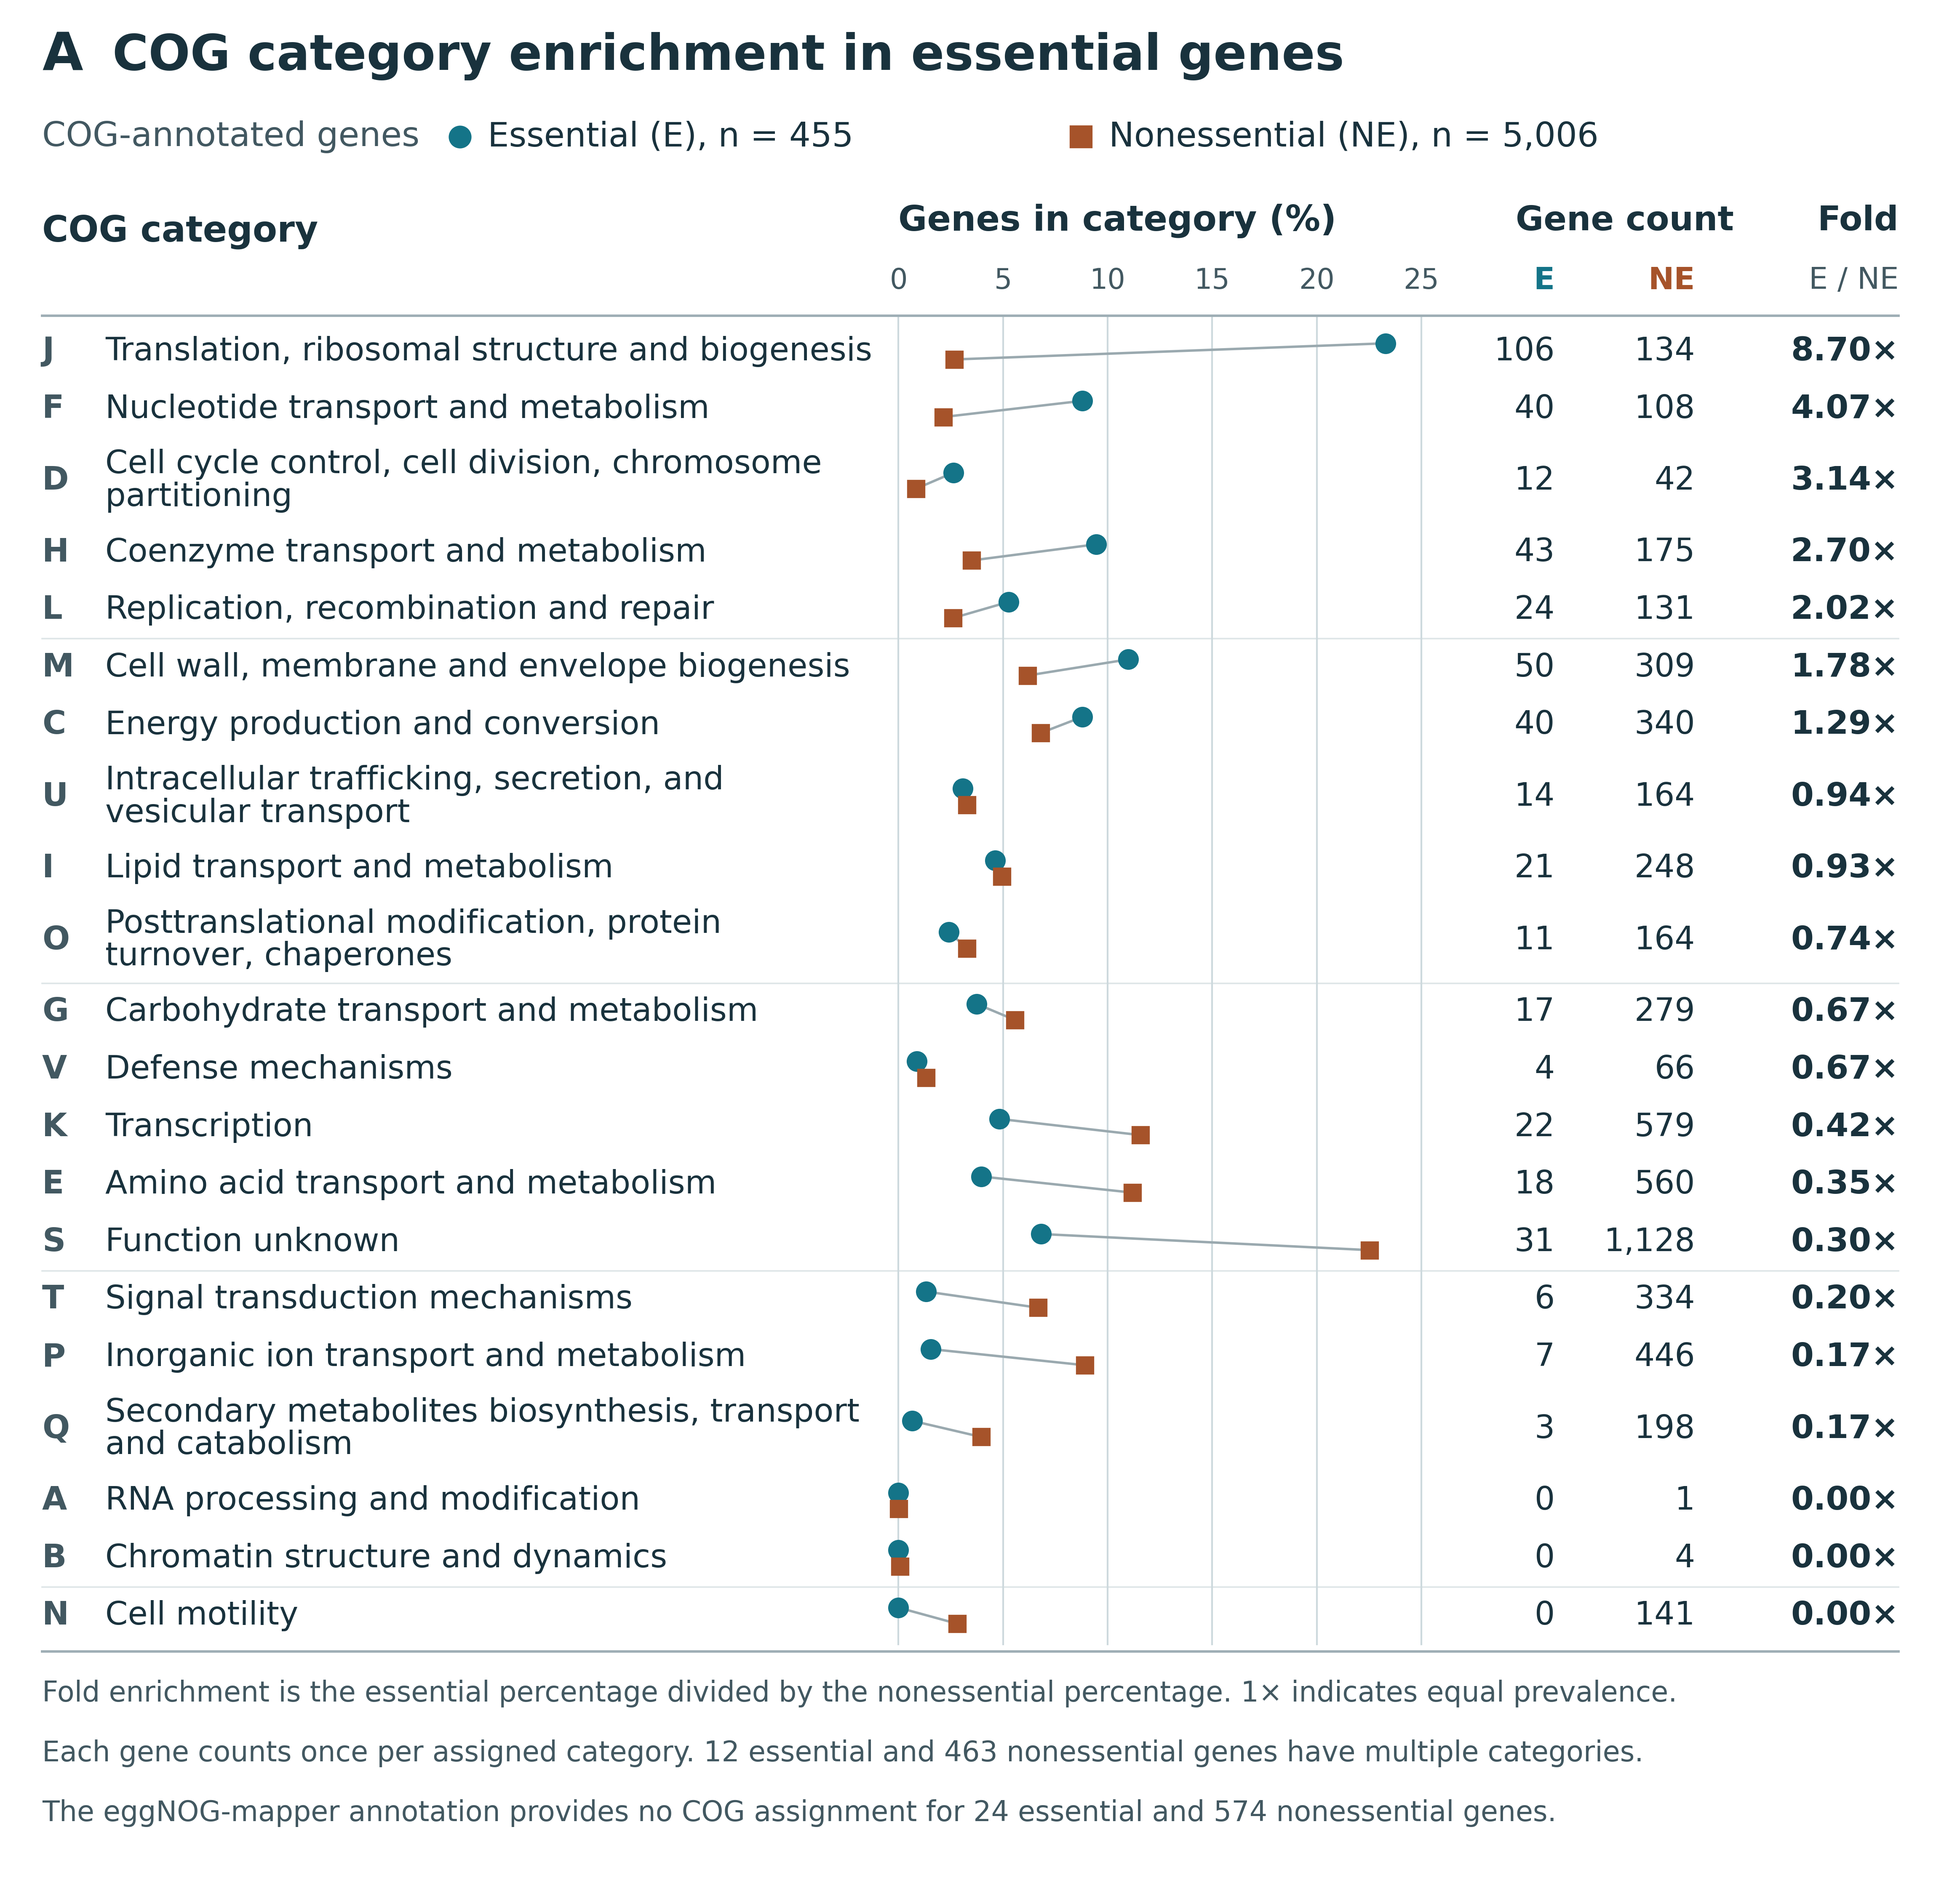
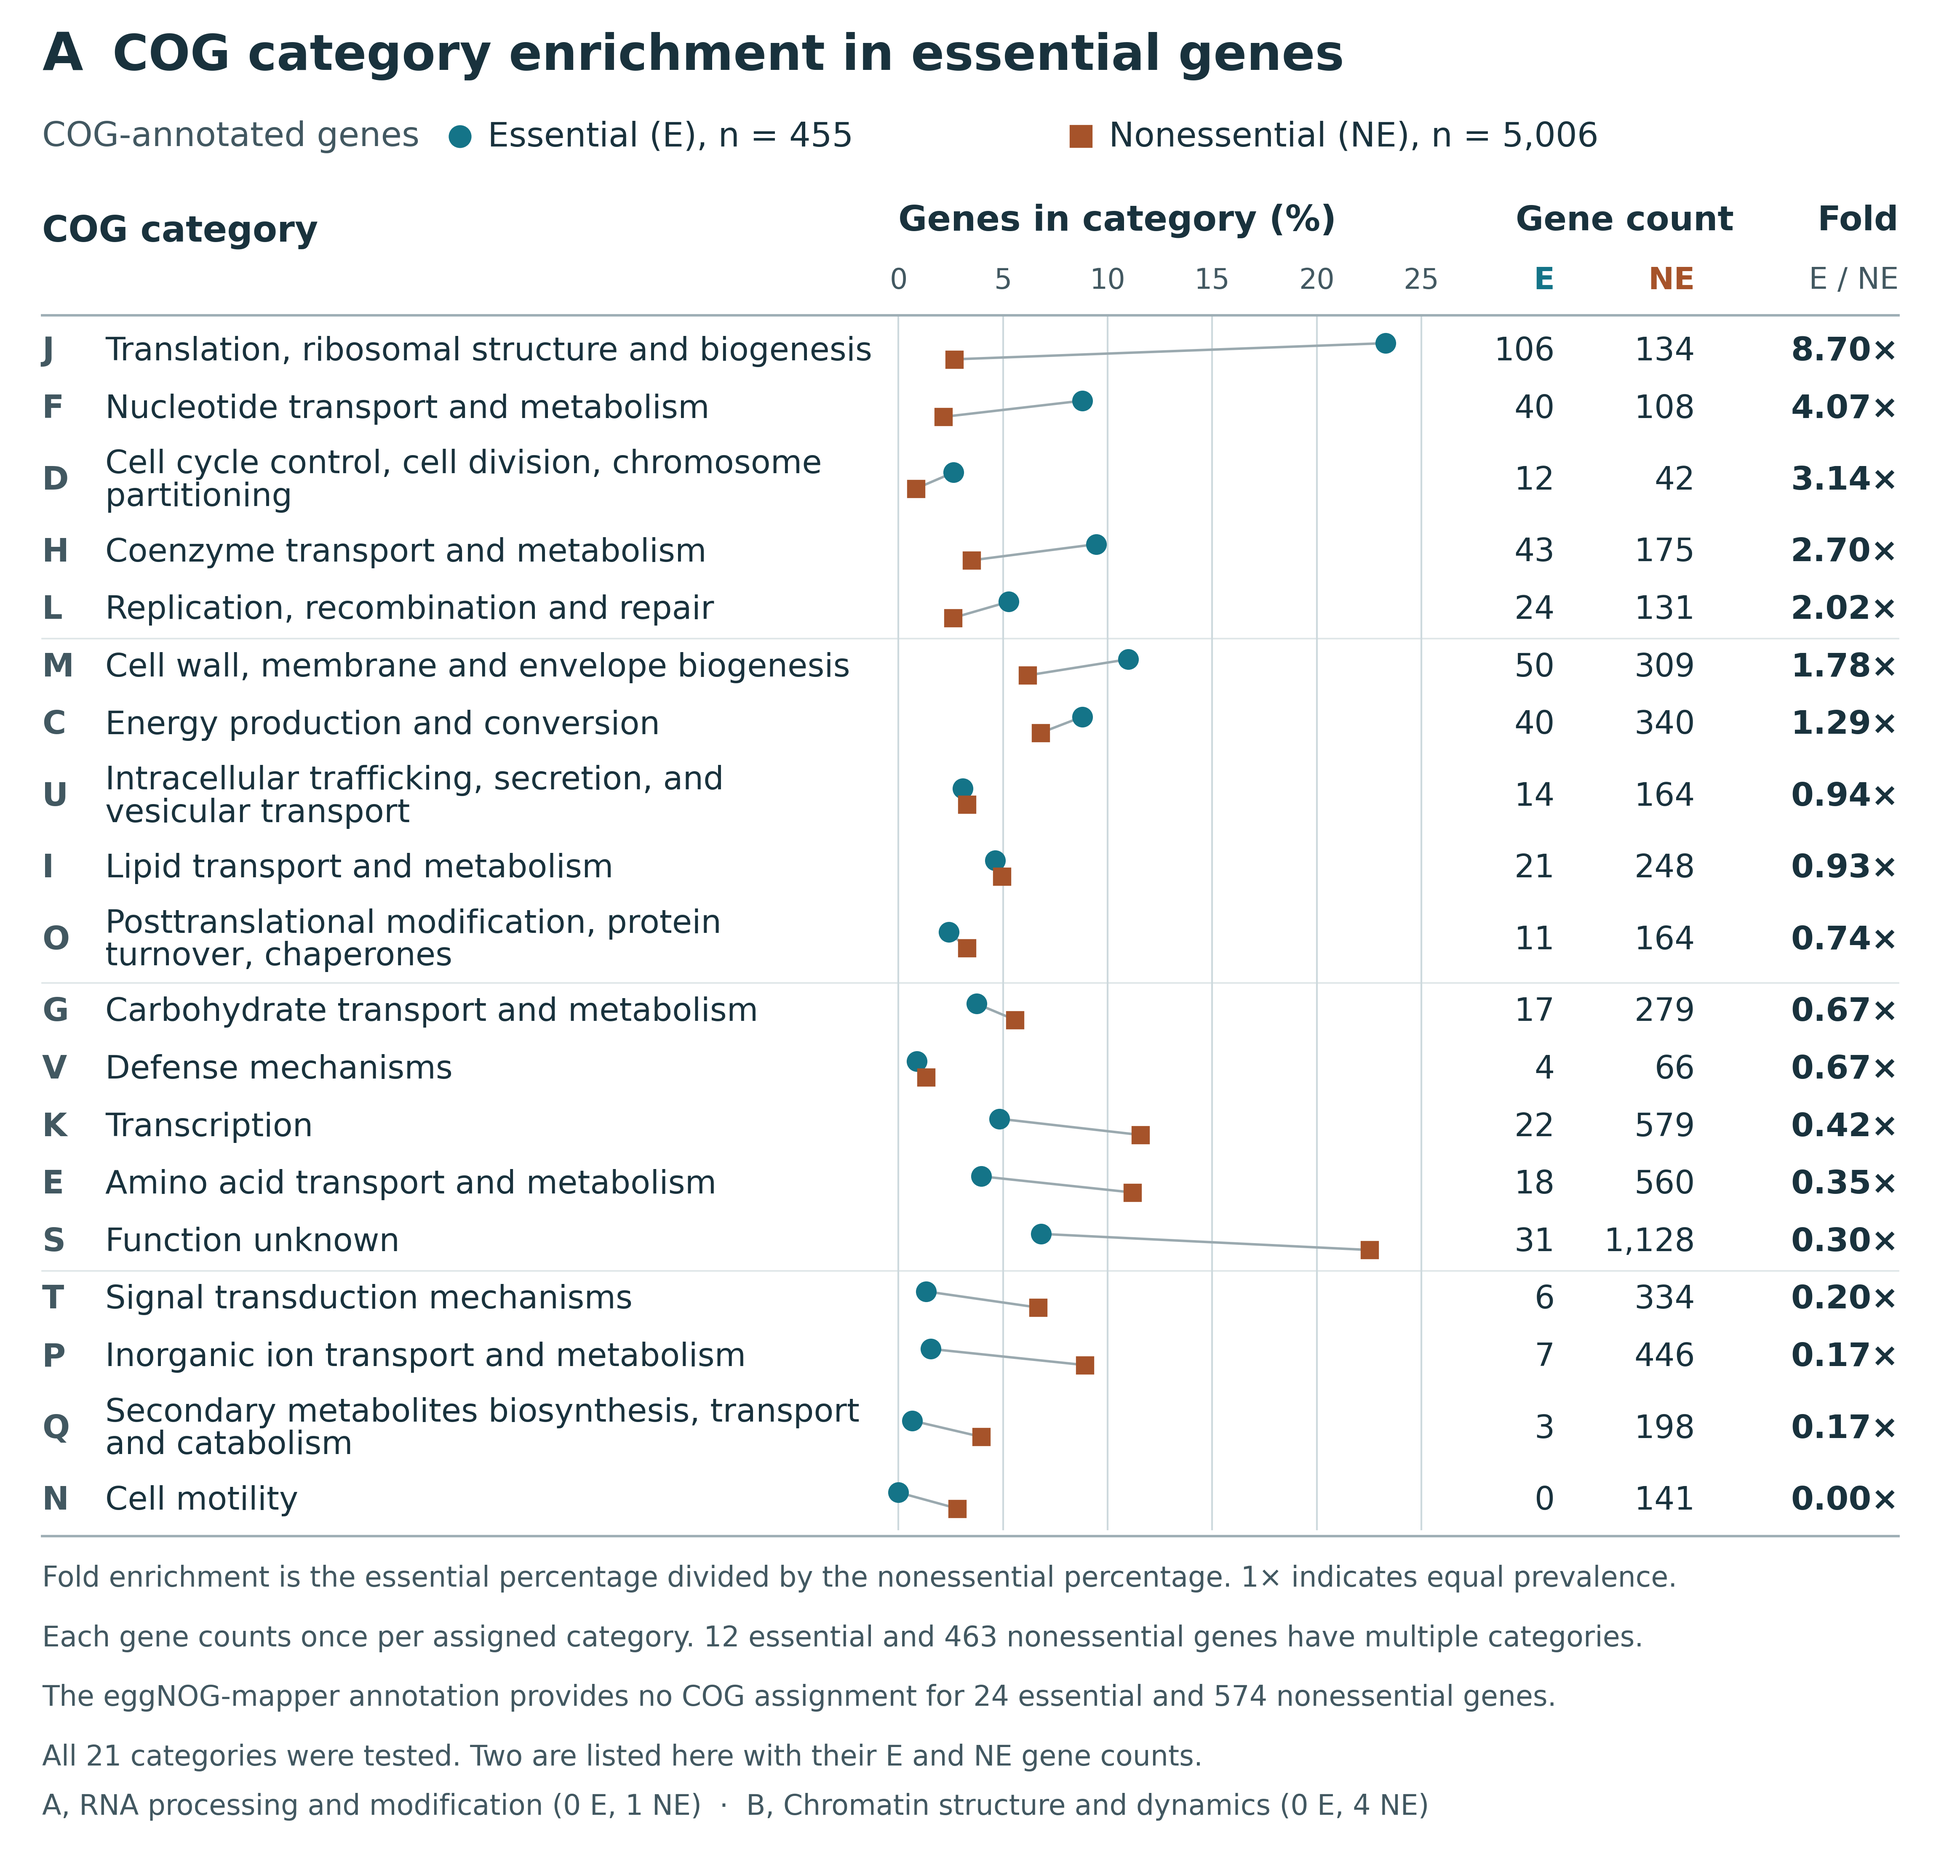
Report sparse COG categories in the Figure 4A legend

diff --git a/figures/figure_4/plot_figure_4a.py b/figures/figure_4/plot_figure_4a.py
@@ -200,12 +200,15 @@ def draw(counts, statuses, multi):
     left, label_x, plot_x, plot_end = 12, 30, 256, 405
     e_count_x, ne_count_x, fold_x = 443, 483, 541
     entries, cursor = [], 92
-    for row in category_rows(counts, statuses):
+    tested = category_rows(counts, statuses)
+    for row in tested:
+        if row[0] in ("A", "B"):
+            continue
         words = wrap(NAMES[row[0]], width=48, break_long_words=False)
         row_height = 16.4 if len(words) == 1 else 24.5
         entries.append((row, "\n".join(words), cursor + row_height / 2))
         cursor += row_height
-    baseline, height = cursor, cursor + 68
+    baseline, height = cursor, cursor + 94
     fig = plt.figure(figsize=(width / 72, height / 72))
     ax = fig.add_axes([0, 0, 1, 1], xlim=(0, width), ylim=(height, 0))
     ax.axis("off")
@@ -259,6 +262,10 @@ def draw(counts, statuses, multi):
     missing_e, missing_ne = (sum(statuses[g].values()) - statuses[g][ASSIGNED] for g in GROUPS)
     label(left, baseline + 48, f"The eggNOG-mapper annotation provides no COG assignment for {missing_e} essential "
           f"and {missing_ne} nonessential genes.", 8.0, color=MUTED)
+    label(left, baseline + 65, f"All {len(tested)} categories were tested. Two are listed here with their E and NE gene counts.", 8.0, color=MUTED)
+    legend_counts = [f"{code}, {NAMES[code]} ({counts['essential'][code]} E, "
+                     f"{counts['nonessential'][code]} NE)" for code in ("A", "B")]
+    label(left, baseline + 79, "  ·  ".join(legend_counts), 8.0, color=MUTED)
     return fig
 
 
